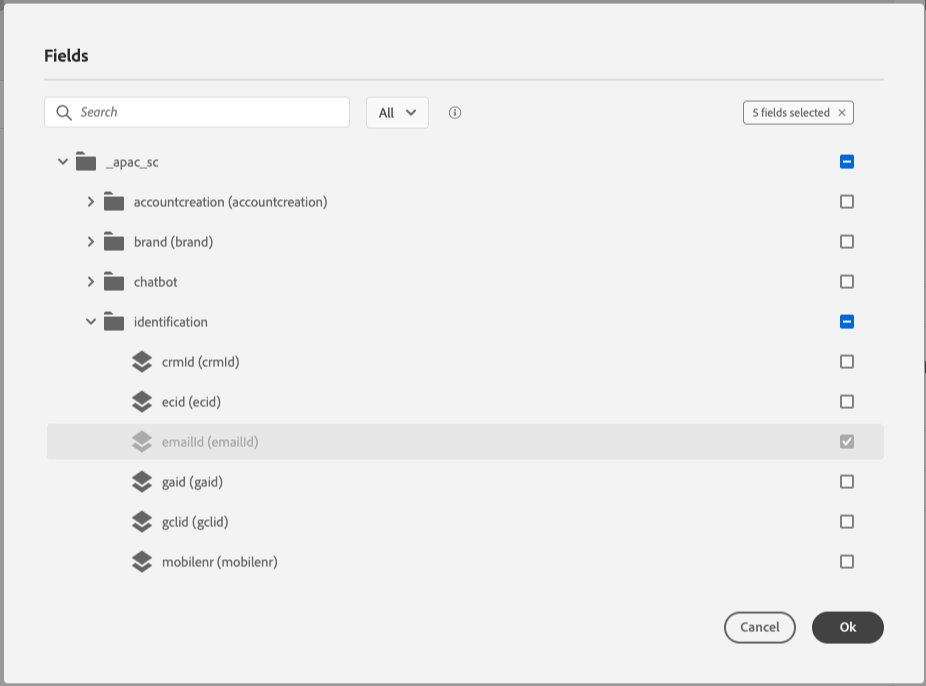
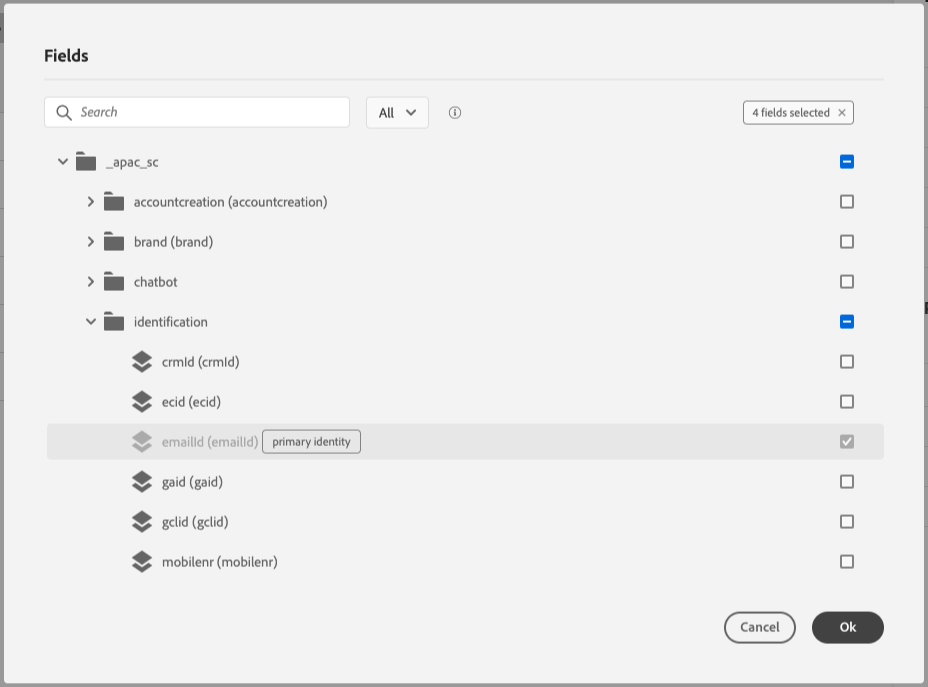
updates to module 6

diff --git a/help/tutorial-comprehensive-technical/modules/module6/ex1.md b/help/tutorial-comprehensive-technical/modules/module6/ex1.md
@@ -47,6 +47,10 @@ Next, add a description like this `Account Creation Event`.
 
 ![ACOP](./images/eventdescription.png)
 
+Next is the **Event ID Type** selection. Select **System Generated**
+
+![ACOP](./images/eventidtype.png) 
+
 Next is the Schema selection. A schema was prepared for this exercise. Please use the schema `AEP Demo - Account Creation Schema v.1`.
 
 ![ACOP](./images/eventschema.png)
@@ -57,7 +61,7 @@ After selecting the Schema, you'll see a number of fields being selected in the 
 
 You'll see a **Fields** window popup, in which you need to select the fields that we need to personalize the email.
 
-![ACOP](./images/eventfields.png)
+![ACOP](./images/eventfields.png) 
 
 In the object **--aepTenantId--.accountcreation**, please make sure to select the fields **firstName** and **lastName**.
 
@@ -70,6 +74,10 @@ In the object **--aepTenantId--.brand**, please make sure to select the fields *
 Click **Save** to save your changes.
 
 ![ACOP](./images/save.png)
+
+You should then see this:
+
+![ACOP](./images/eventdoned.png) 
 
 Click **Save** once more to save your changes.
 
